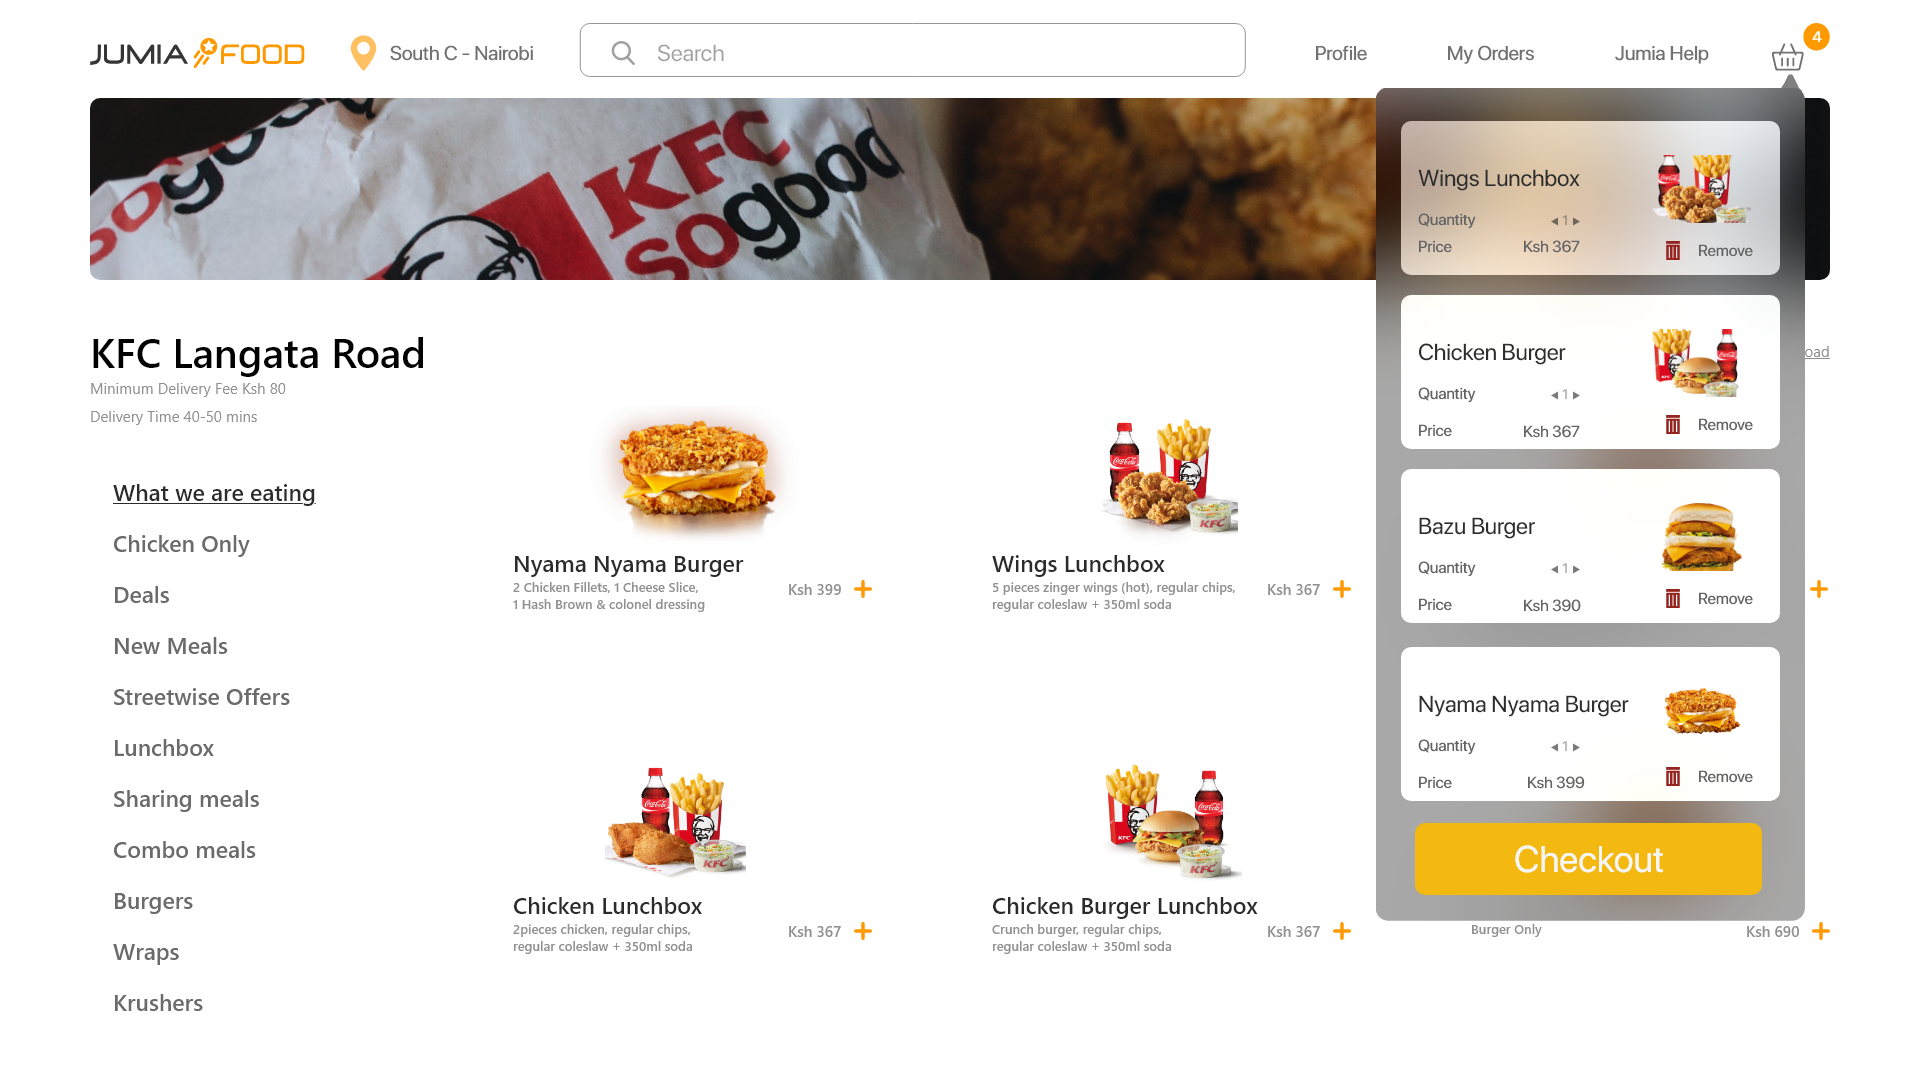
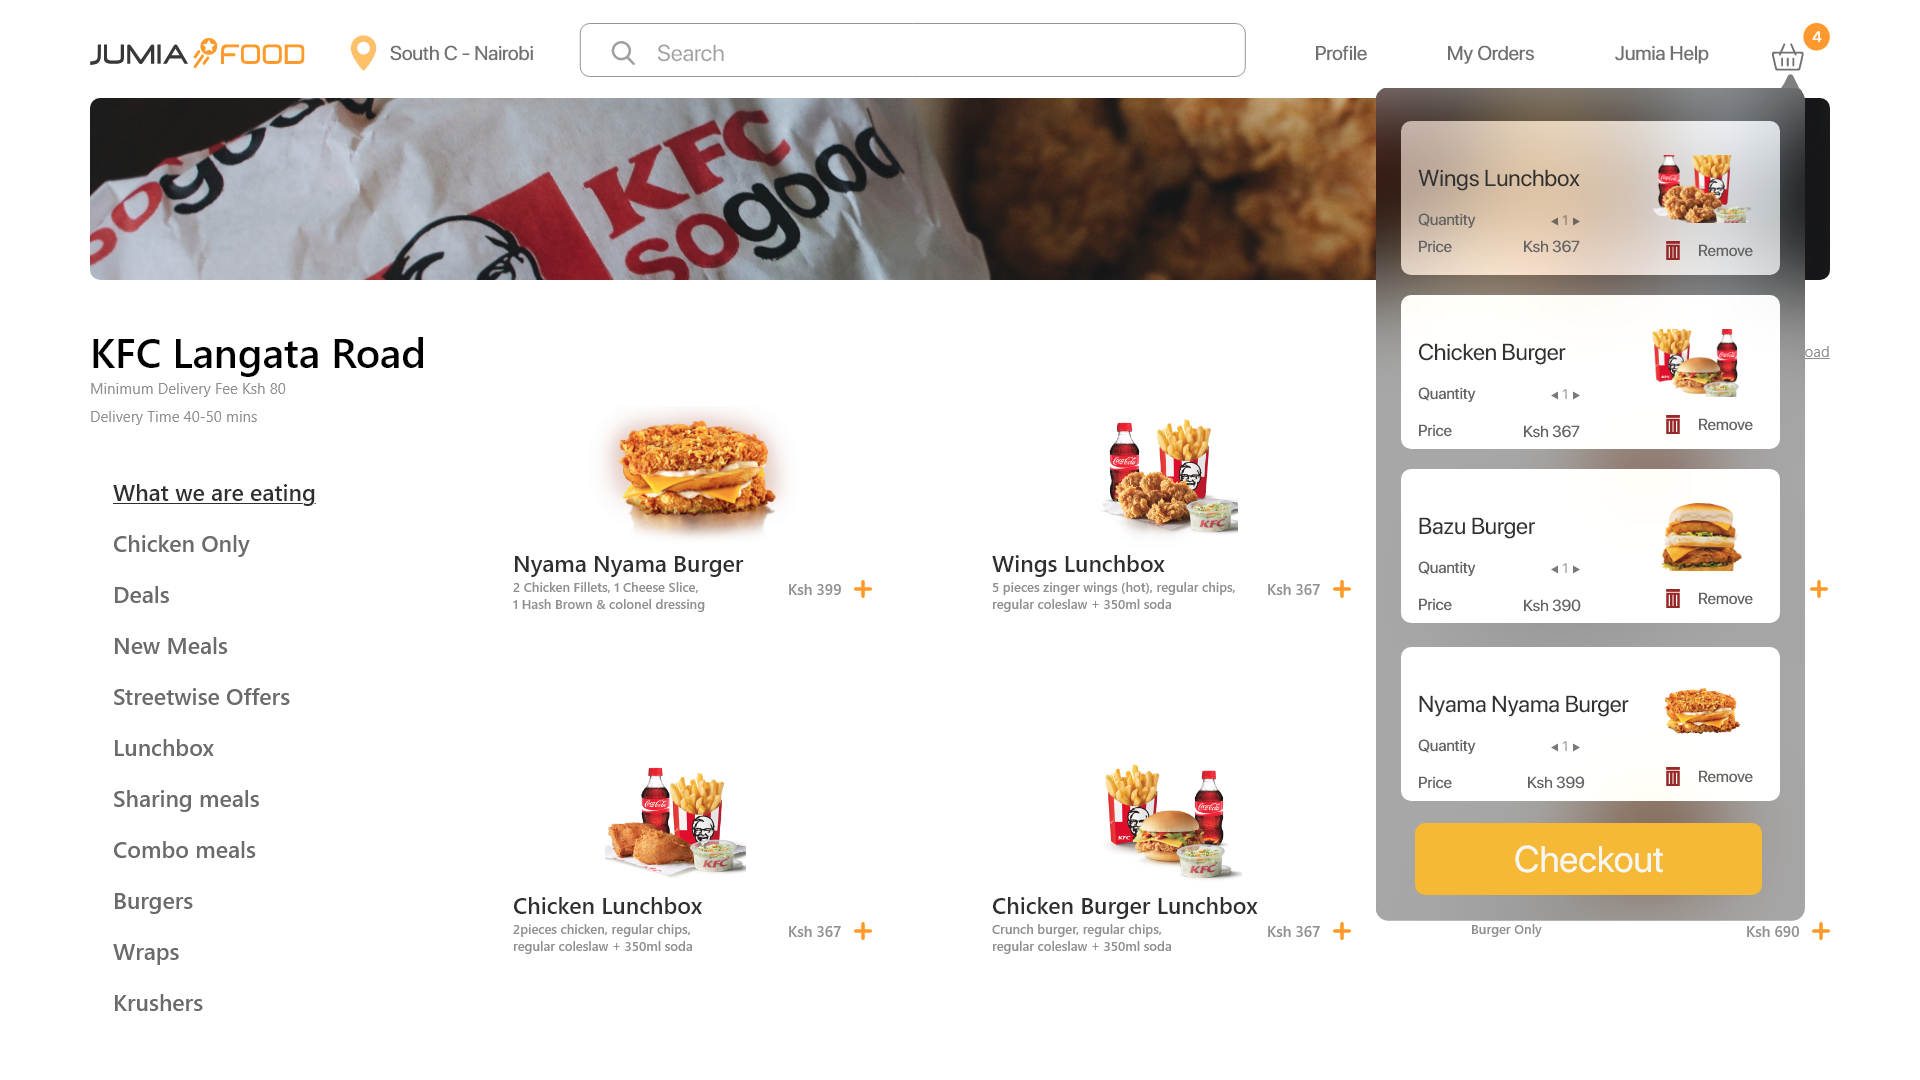
cart progress

diff --git a/src/landing.html b/src/landing.html
@@ -23,13 +23,16 @@
               </div>
               <div>
                 <span>Quantity</span>
+                <div>
                 <button onclick="$(this).next()[0].stepDown()" ><span class="iconify" data-icon="icon-park-solid:reduce-one" style="color: #f90;" data-width="16" data-height="16"></span></button>
                 <input value="1" type="number">
-                <button onclick="$(this).prev()[0].stepUp()" ><span class="iconify" data-icon="fluent:add-circle-16-filled" style="color: #f90;" data-width="20" data-height="20"></span></button>
+                <button onclick="$(this).prev()[0].stepUp()" ><span class="iconify" data-icon="fluent:add-circle-16-filled" style="color: #f90;" data-width="20" data-height="20"></span></button></div>
               </div>
               <div>
                 <span>Price</span>
+                <div>
                 <span>Ksh 367</span>
+              </div>
               </div>
             </div>
             <div id="cart-item-right"></div>

diff --git a/src/css/cart.css b/src/css/cart.css
@@ -56,6 +56,10 @@ button {
   background-color: transparent;
   border: none;
 }
-.cart-item-left div:nth-of-type(1) {
-  outline: red dotted;
+#cart-item-left div {
+  display: flex;
+}
+#cart-item-left div div {
+  position: absolute;
+  right: 10px;
 }
